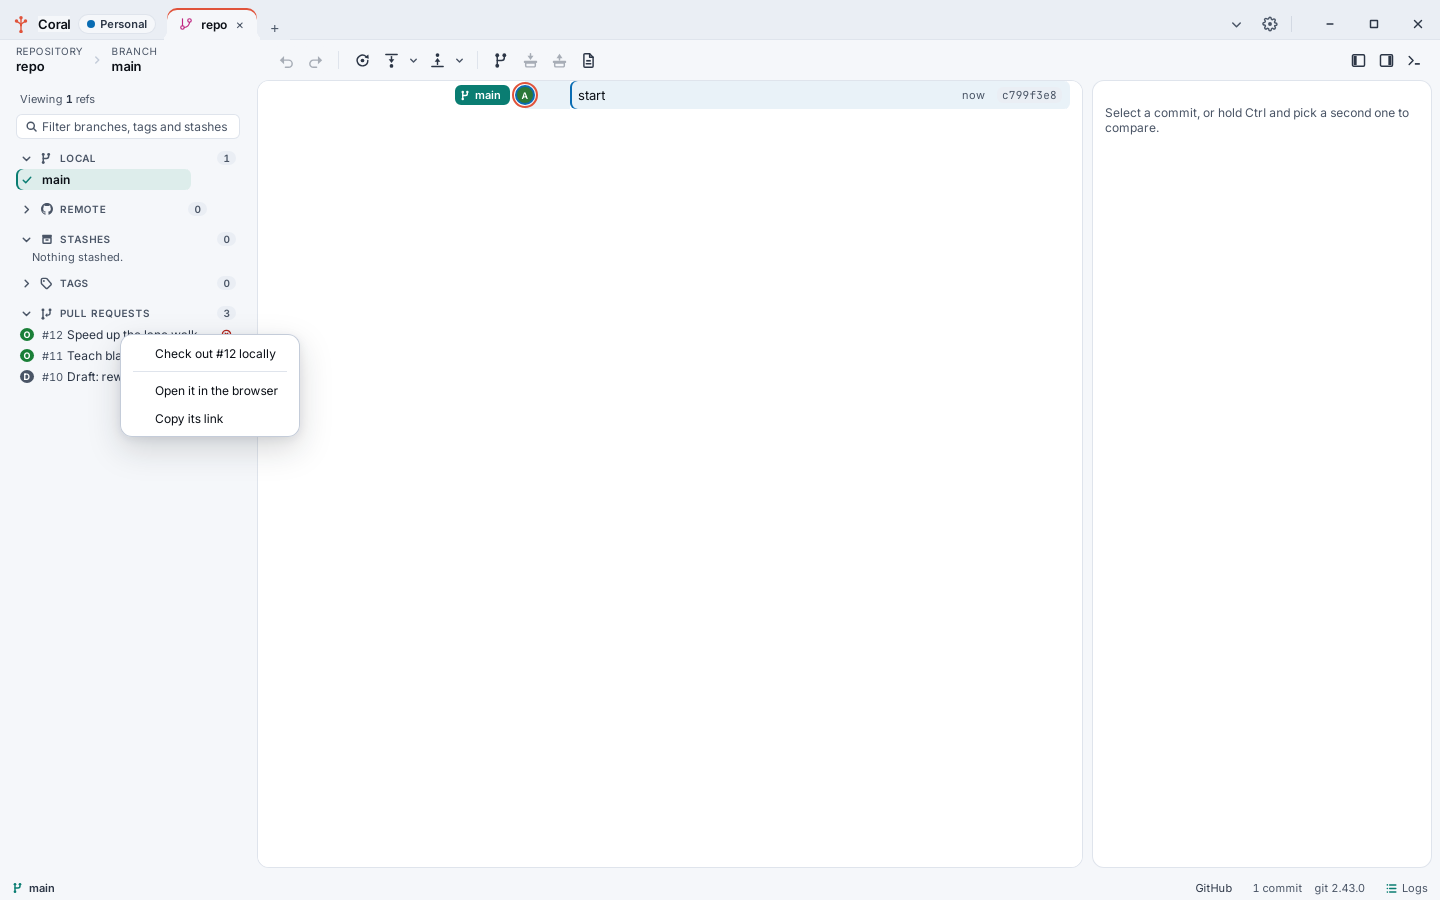
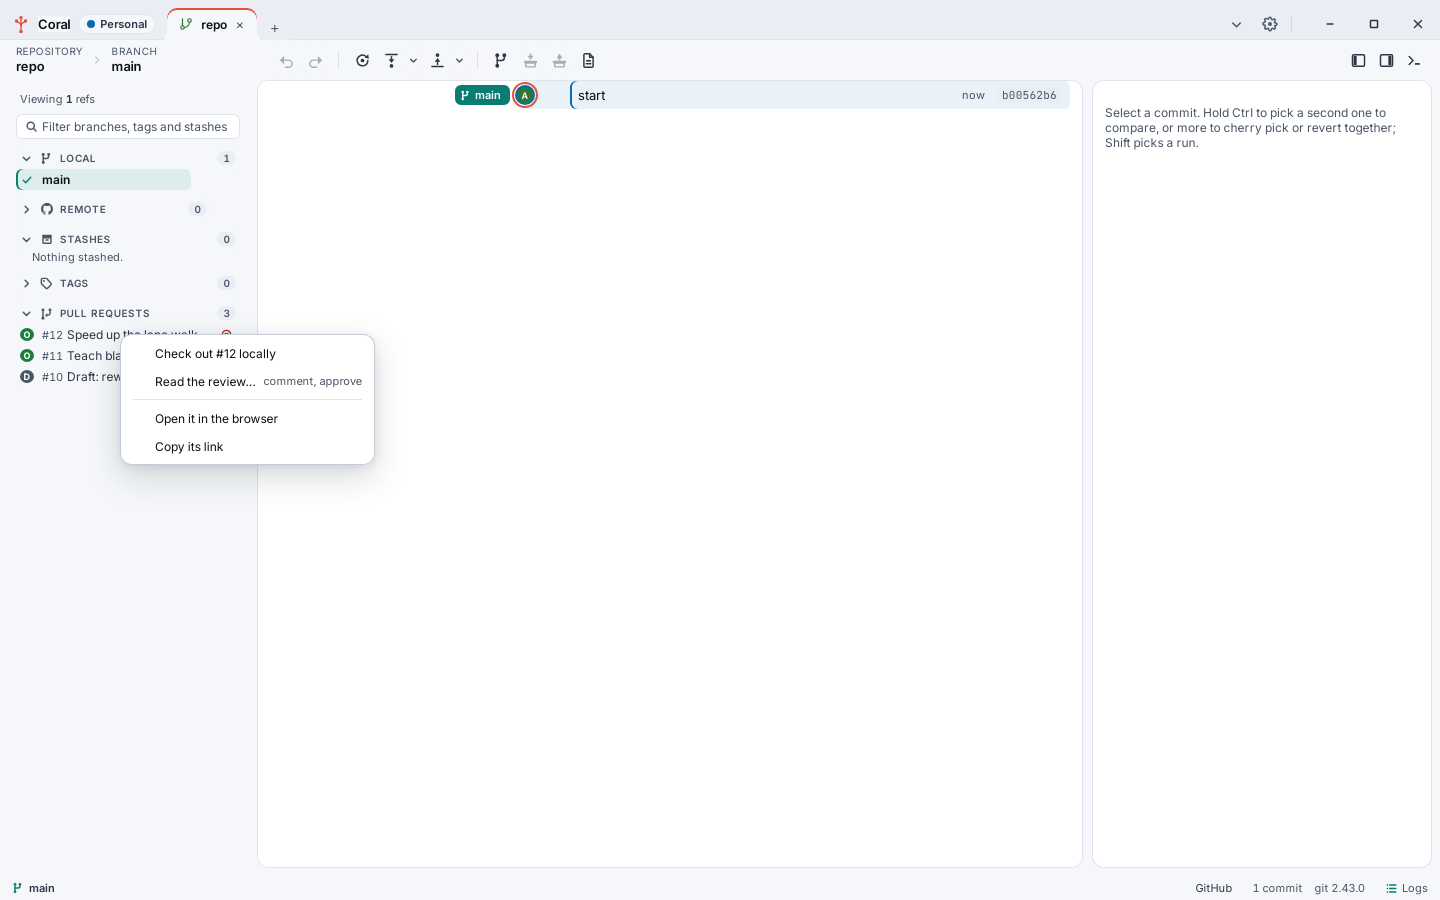
docs: the website and README with reviews, LFS, signatures, picked commits, ignore and notes
The pull request screenshot is retaken with the review in its menu.

Claude-Session: https://claude.ai/code/session_01UNrBZjnveZYcdYvaxW2CFd

Changed region(s): [[0.0625, 0.4044, 0.25, 0.5289], [0.8125, 0.1244, 0.9688, 0.1556], [0.7812, 0.1556, 0.8125, 0.1867]]

diff --git a/site/index.html b/site/index.html
@@ -186,6 +186,10 @@
           <p>Each open pull or merge request is marked passing, failing or running, from GitHub's checks or GitLab's pipeline. One click opens the check that failed.</p>
         </div>
         <div class="card">
+          <h3>Reviews from the sidebar</h3>
+          <p>Read a pull or merge request's review, comments on lines included, then comment, approve or ask for changes without leaving the window.</p>
+        </div>
+        <div class="card">
           <h3>Updates itself</h3>
           <p>Install a new release from About, checked against Coral's signing key before anything is replaced. It only looks when you ask, or at launch if you turn that on.</p>
         </div>
@@ -200,6 +204,26 @@
         <div class="card">
           <h3>Worktrees, stashes, submodules</h3>
           <p>Stash one file, or only what is staged. Plus shallow and blobless clones and SHA-256 repositories, and a window that refreshes as files change on disk.</p>
+        </div>
+        <div class="card">
+          <h3>LFS, tracked and locked</h3>
+          <p>Put a file, or every file of its kind, into LFS from its menu. Lock one before you edit it, and see the files a teammate has locked.</p>
+        </div>
+        <div class="card">
+          <h3>Signatures checked</h3>
+          <p>A signed commit says whose GPG or SSH signature it carries and whether it holds, without holding up the rest of its details.</p>
+        </div>
+        <div class="card">
+          <h3>Several commits at once</h3>
+          <p>Ctrl-click or Shift-click commits, then cherry pick them all, oldest first, or revert them all, newest first.</p>
+        </div>
+        <div class="card">
+          <h3>Ignore, or stop tracking</h3>
+          <p>Ignore a file, its kind or its folder from its menu. Stop tracking a file committed by mistake, and it stays on disk.</p>
+        </div>
+        <div class="card">
+          <h3>Notes and templates</h3>
+          <p>Leave a note beside a commit without changing its id, and start every message from the repository's commit template.</p>
         </div>
         <div class="card">
           <h3>Light and dark</h3>

diff --git a/README.md b/README.md
@@ -37,7 +37,7 @@ worth of DOM. The panel on the right is the commit under the cursor.*
 | **Interactive rebase** with a picker for reword, squash, fixup, edit, drop and reorder, before anything runs. | **The command palette** on `Ctrl+P`, with every action and every tag in the repository. |
 | [![The dark theme](docs/screenshots/08-dark.png)](docs/screenshots/08-dark.png) | [![The embedded terminal](docs/screenshots/09-terminal.png)](docs/screenshots/09-terminal.png) |
 | **A dark theme**, chosen or followed from the desktop. | **A terminal** in the repository, on ``Ctrl+` ``. |
-| [![Recovering lost work](docs/screenshots/14-recover.png)](docs/screenshots/14-recover.png) | [![Checking out a pull request](docs/screenshots/15-checkout.png)](docs/screenshots/15-checkout.png) |
+| [![Recovering lost work](docs/screenshots/14-recover.png)](docs/screenshots/14-recover.png) | [![A pull request: check it out or read its review](docs/screenshots/15-checkout.png)](docs/screenshots/15-checkout.png) |
 | **Lost work, found again**: every commit HEAD has been on, the ones nothing reaches any more marked, and a branch at one in a click. | **A pull or merge request checked out** as a branch of its own from a right-click, forks included. |
 
 ![A branch soloed](docs/screenshots/10-solo.png)
@@ -61,7 +61,9 @@ carries an eye that takes it out of the graph.
 **Working with changes.** Stage and unstage by file, by hunk or by line; commit, amend, discard.
 The file panel answers four questions about one file: what changed, who wrote each line, what
 has touched it, and the same again with whitespace discounted. Diffs read inline or side by
-side, and a line that replaced another has the words that actually changed marked on it.
+side, and a line that replaced another has the words that actually changed marked on it. A
+file's menu ignores it, its kind or its folder, stops tracking one committed by mistake, puts
+it into Git LFS, and locks or unlocks it on the LFS server.
 
 **Patches.** Two commits picked in the graph are written out as a numbered series with one
 button; the same button takes patch files back in, either as commits with their original
@@ -69,7 +71,8 @@ authors or as changes left in the working copy to read first. A patch that no lo
 cleanly stops in the conflict tool rather than failing.
 
 **Rewriting history.** Merge, rebase, interactive rebase with a picker for reword, squash,
-fixup, edit, drop and reorder, cherry-pick, revert, and reset. Every one of them is journalled,
+fixup, edit, drop and reorder, cherry-pick, revert, and reset. Several commits picked with
+Ctrl or Shift are cherry picked or reverted together. Every one of them is journalled,
 so **undo** reverses an operation it knows nothing about by restoring the refs it moved — and it
 syncs the worktree, so undoing does not leave the index describing a commit that is no longer
 there.
@@ -83,7 +86,8 @@ are backwards and the tool says so.
 shows what git is doing and can be stopped, which is what makes having no timeout on them safe. Forcing is
 always `--force-with-lease`. Coral is its own git credential helper, so a token never appears in
 a URL, a config file or an argument list. GitHub and GitLab, including Enterprise and
-self-hosted, list their pull and merge requests beside the branches.
+self-hosted, list their pull and merge requests beside the branches, and a request's review
+can be read, commented on, approved or answered with a request for changes from there.
 
 **Profiles.** Work repositories and personal ones on one machine. A profile owns its own tabs,
 groups and recent list, and carries a name, an email address and an ssh key that a repository
@@ -91,7 +95,8 @@ cloned under it inherits — written into that repository's own config, so git a
 see exactly what Coral does. Switching restores the other side as it was left.
 
 **Around the edges.** Repository tabs with Chrome-style groups, an embedded terminal, commit
-signing configured per repository, SSH key selection for a clone and for an open repository,
+signing configured per repository with each commit's signature checked, notes on commits,
+commit templates, SSH key selection for a clone and for an open repository,
 worktrees, patches, a command palette, rebindable shortcuts, and light and dark themes.
 
 ## Two front ends, one engine
